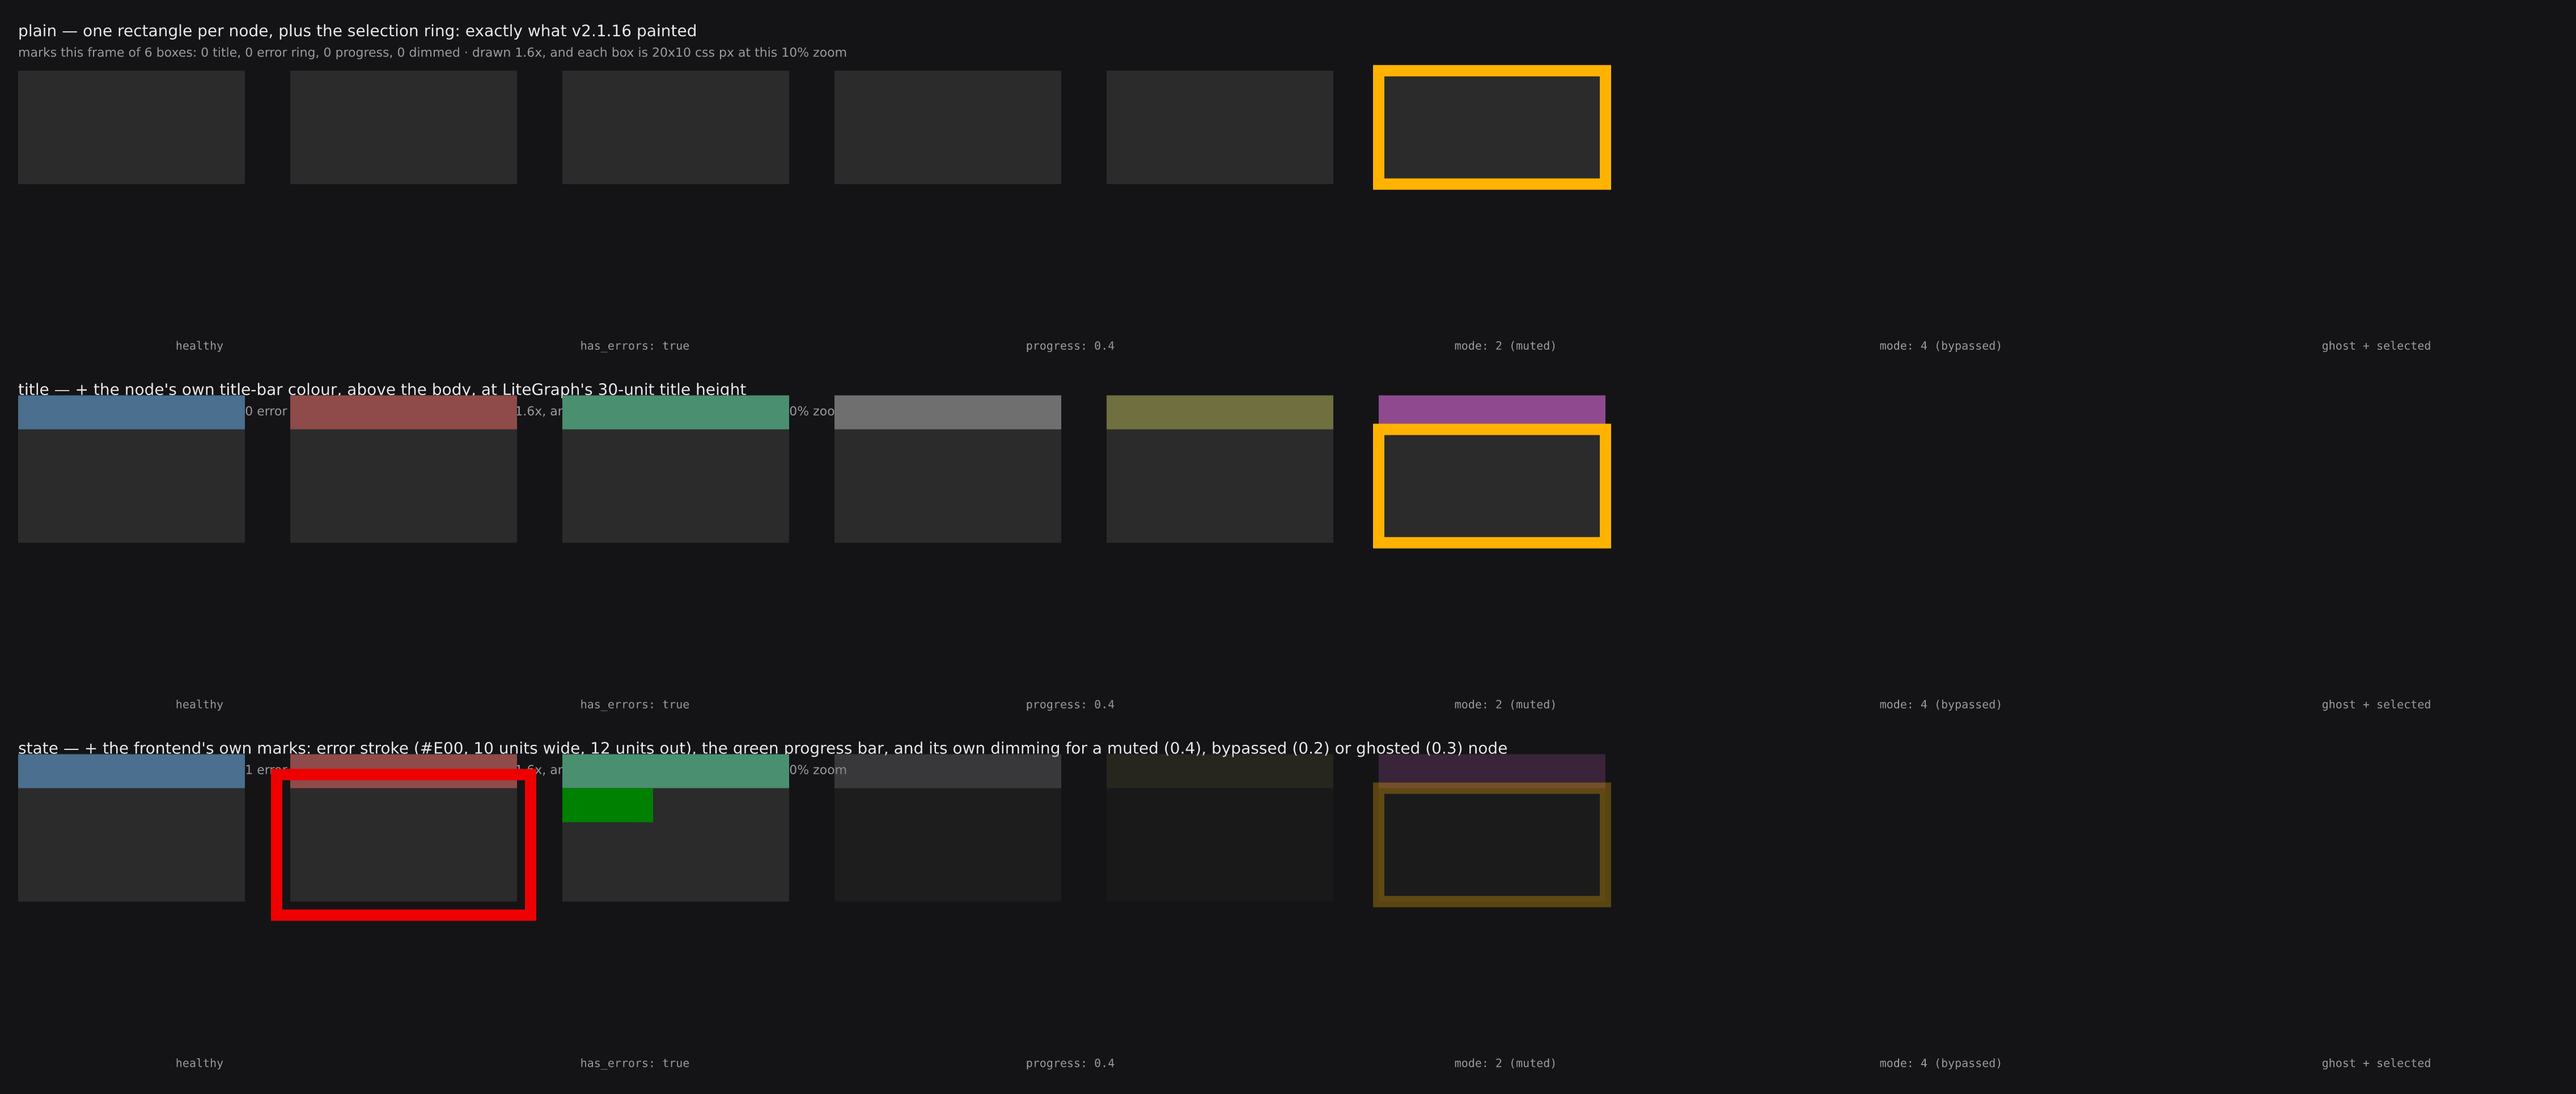
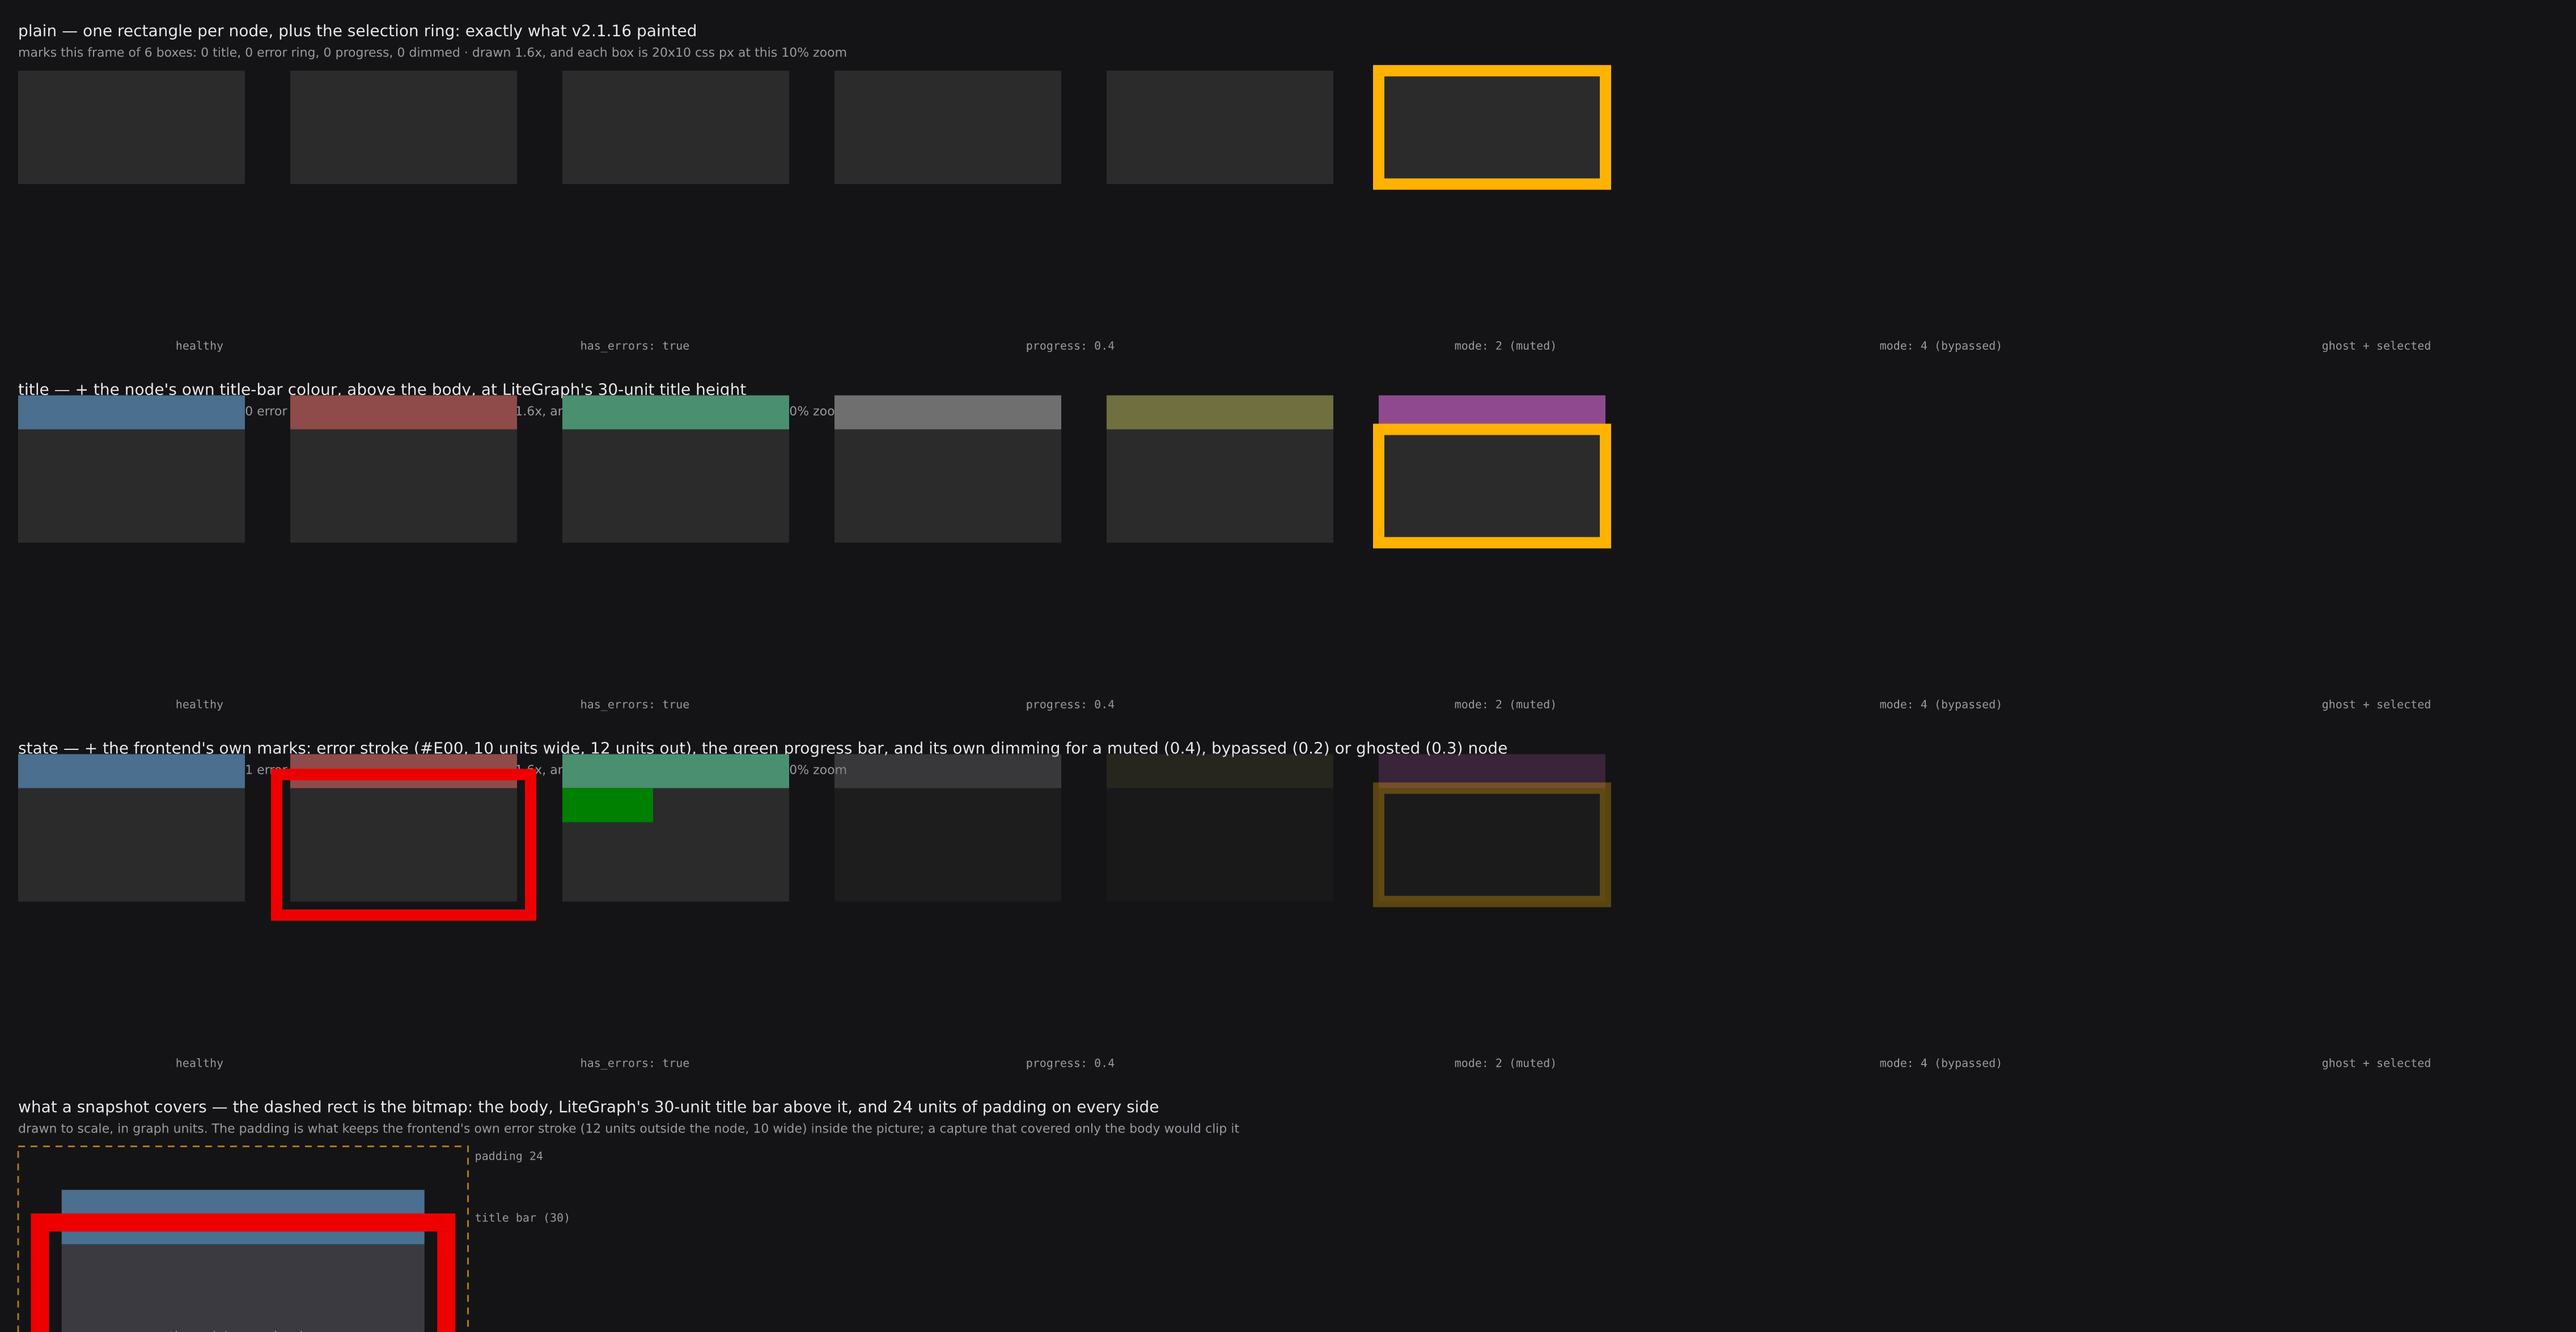
box-preview: the capture geometry, and a 1x PNG
The harness canvas has no pixels, so a snapshot reuse cannot be photographed —
but the rectangle a capture covers can, and it is the thing that decides whether a
node's title bar, its error stroke and a hook drawing outside the body survive.
The preview grew a fourth panel for it, reading LOD_SNAP_PAD and
LOD_SNAP_TITLE_H out of web/tracker.js so the one hand-drawn picture still states
the code's own numbers. preview/boxes.png joins boxes-2x.png for a link that
renders inline.

152 tests, test_init OK, demo exit 0, preview reproducible.

diff --git a/preview/boxes.html b/preview/boxes.html
@@ -13,7 +13,7 @@ operation the real paint path (<code>lodPaintNode</code>) issued, recorded from 
 replayed as SVG, in graph units, at the same numbers the code uses. LiteGraph's own node drawing
 (title text, sockets, widgets) is not reproduced — that is the drawing the flat path replaces. At
 10% zoom each box is 20&times;10 css pixels on screen, so the picture is magnified 1.6&times;.</p>
-<svg xmlns="http://www.w3.org/2000/svg" width="2272" height="965.2" viewBox="0 0 2272 965.2">
+<svg xmlns="http://www.w3.org/2000/svg" width="2272" height="1175.2" viewBox="0 0 2272 1175.2">
 <rect width="100%" height="100%" fill="#141416"/>
 <text x="16" y="32" fill="#e8e8ea" font-family="DejaVu Sans, Verdana, Geneva, ui-sans-serif, system-ui, sans-serif" font-size="14">plain — one rectangle per node, plus the selection ring: exactly what v2.1.16 painted</text>
 <text x="16" y="50" fill="#9a9aa2" font-family="DejaVu Sans, Verdana, Geneva, ui-sans-serif, system-ui, sans-serif" font-size="11">marks this frame of 6 boxes: 0 title, 0 error ring, 0 progress, 0 dimmed · drawn 1.6x, and each box is 20x10 css px at this 10% zoom</text>
@@ -48,4 +48,14 @@ replayed as SVG, in graph units, at the same numbers the code uses. LiteGraph's 
 <text x="1328" y="941.2" text-anchor="middle" fill="#9a9aa2" font-family="DejaVu Sans Mono, Menlo, Consolas, ui-monospace, monospace" font-size="10">mode: 2 (muted)</text>
 <text x="1712" y="941.2" text-anchor="middle" fill="#9a9aa2" font-family="DejaVu Sans Mono, Menlo, Consolas, ui-monospace, monospace" font-size="10">mode: 4 (bypassed)</text>
 <text x="2096" y="941.2" text-anchor="middle" fill="#9a9aa2" font-family="DejaVu Sans Mono, Menlo, Consolas, ui-monospace, monospace" font-size="10">ghost + selected</text>
+<text x="16" y="981.2" fill="#e8e8ea" font-family="DejaVu Sans, Verdana, Geneva, ui-sans-serif, system-ui, sans-serif" font-size="14">what a snapshot covers — the dashed rect is the bitmap: the body, LiteGraph's 30-unit title bar above it, and 24 units of padding on every side</text>
+<text x="16" y="999.2" fill="#9a9aa2" font-family="DejaVu Sans, Verdana, Geneva, ui-sans-serif, system-ui, sans-serif" font-size="11">drawn to scale, in graph units. The padding is what keeps the frontend's own error stroke (12 units outside the node, 10 wide) inside the picture; a capture that covered only the body would clip it</text>
+<rect x="16" y="1011.2" width="396.8" height="284.8" fill="none" stroke="#AE7719" stroke-width="1.5" stroke-dasharray="6 5"/>
+<rect x="54.4" y="1097.6" width="320" height="160" fill="#3a3a40"/>
+<rect x="54.4" y="1049.6" width="320" height="48" fill="#4a6f8f"/>
+<rect x="35.2" y="1078.4" width="358.4" height="198.4" fill="none" stroke="#E00" stroke-width="16"/>
+<text x="214.4" y="1181.6" text-anchor="middle" fill="#9a9aa2" font-family="DejaVu Sans Mono, Menlo, Consolas, ui-monospace, monospace" font-size="10">the node's own drawing</text>
+<text x="418.8" y="1023.2" text-anchor="start" fill="#9a9aa2" font-family="DejaVu Sans Mono, Menlo, Consolas, ui-monospace, monospace" font-size="10">padding 24</text>
+<text x="418.8" y="1077.6" text-anchor="start" fill="#9a9aa2" font-family="DejaVu Sans Mono, Menlo, Consolas, ui-monospace, monospace" font-size="10">title bar (30)</text>
+<text x="29.2" y="1292.8" text-anchor="end" fill="#9a9aa2" font-family="DejaVu Sans Mono, Menlo, Consolas, ui-monospace, monospace" font-size="10">error stroke: 10 wide, 12 out — inside the picture</text>
 </svg>

diff --git a/README.md b/README.md
@@ -615,6 +615,11 @@ resizing anything.
   paints boxes, with the reason in the panel's own error line; a fault in a
   capture blocks that node and, after five in a row, turns the feature off the
   same way.
+- **A picture of the box itself**, generated from the real paint path:
+  `preview/boxes.html` (open it in a browser) and `preview/boxes.png`, plus the
+  fourth panel showing what a snapshot bitmap covers — the body, LiteGraph's
+  30-unit title bar, 24 units of padding, and the frontend's own error stroke
+  landing inside that rectangle. Regenerate with `node tools/box-preview.mjs`.
 - **Honest limits, written down** (also in the LIMITS block at the bottom of
   `web/tracker.js`): a signature is re-checked every 100 ms, so a change can be
   shown stale for up to that long; a picture is the node at the moment it was

diff --git a/memory.md b/memory.md
@@ -330,7 +330,9 @@ The user's machine and reports, all of which drove priorities:
   test first where possible.
 - Where a picture was the only way to check a look, the look is generated from the
   real source (`tools/pill-preview.mjs`, `tools/box-preview.mjs`) rather than drawn
-  by hand, so it cannot drift from the extension.
+  by hand, so it cannot drift from the extension. `box-preview.mjs` reads
+  `LOD_SNAP_PAD`/`LOD_SNAP_TITLE_H` out of the source for its capture-geometry
+  panel, so even the one hand-drawn picture states the code's own numbers.
 - **Check the parent before committing** in a long-lived agent session: the local
   branch ref can be handed back at an older commit than the working tree (the
   objects and the remote are fine — it is the ref that resets). `git log --oneline
